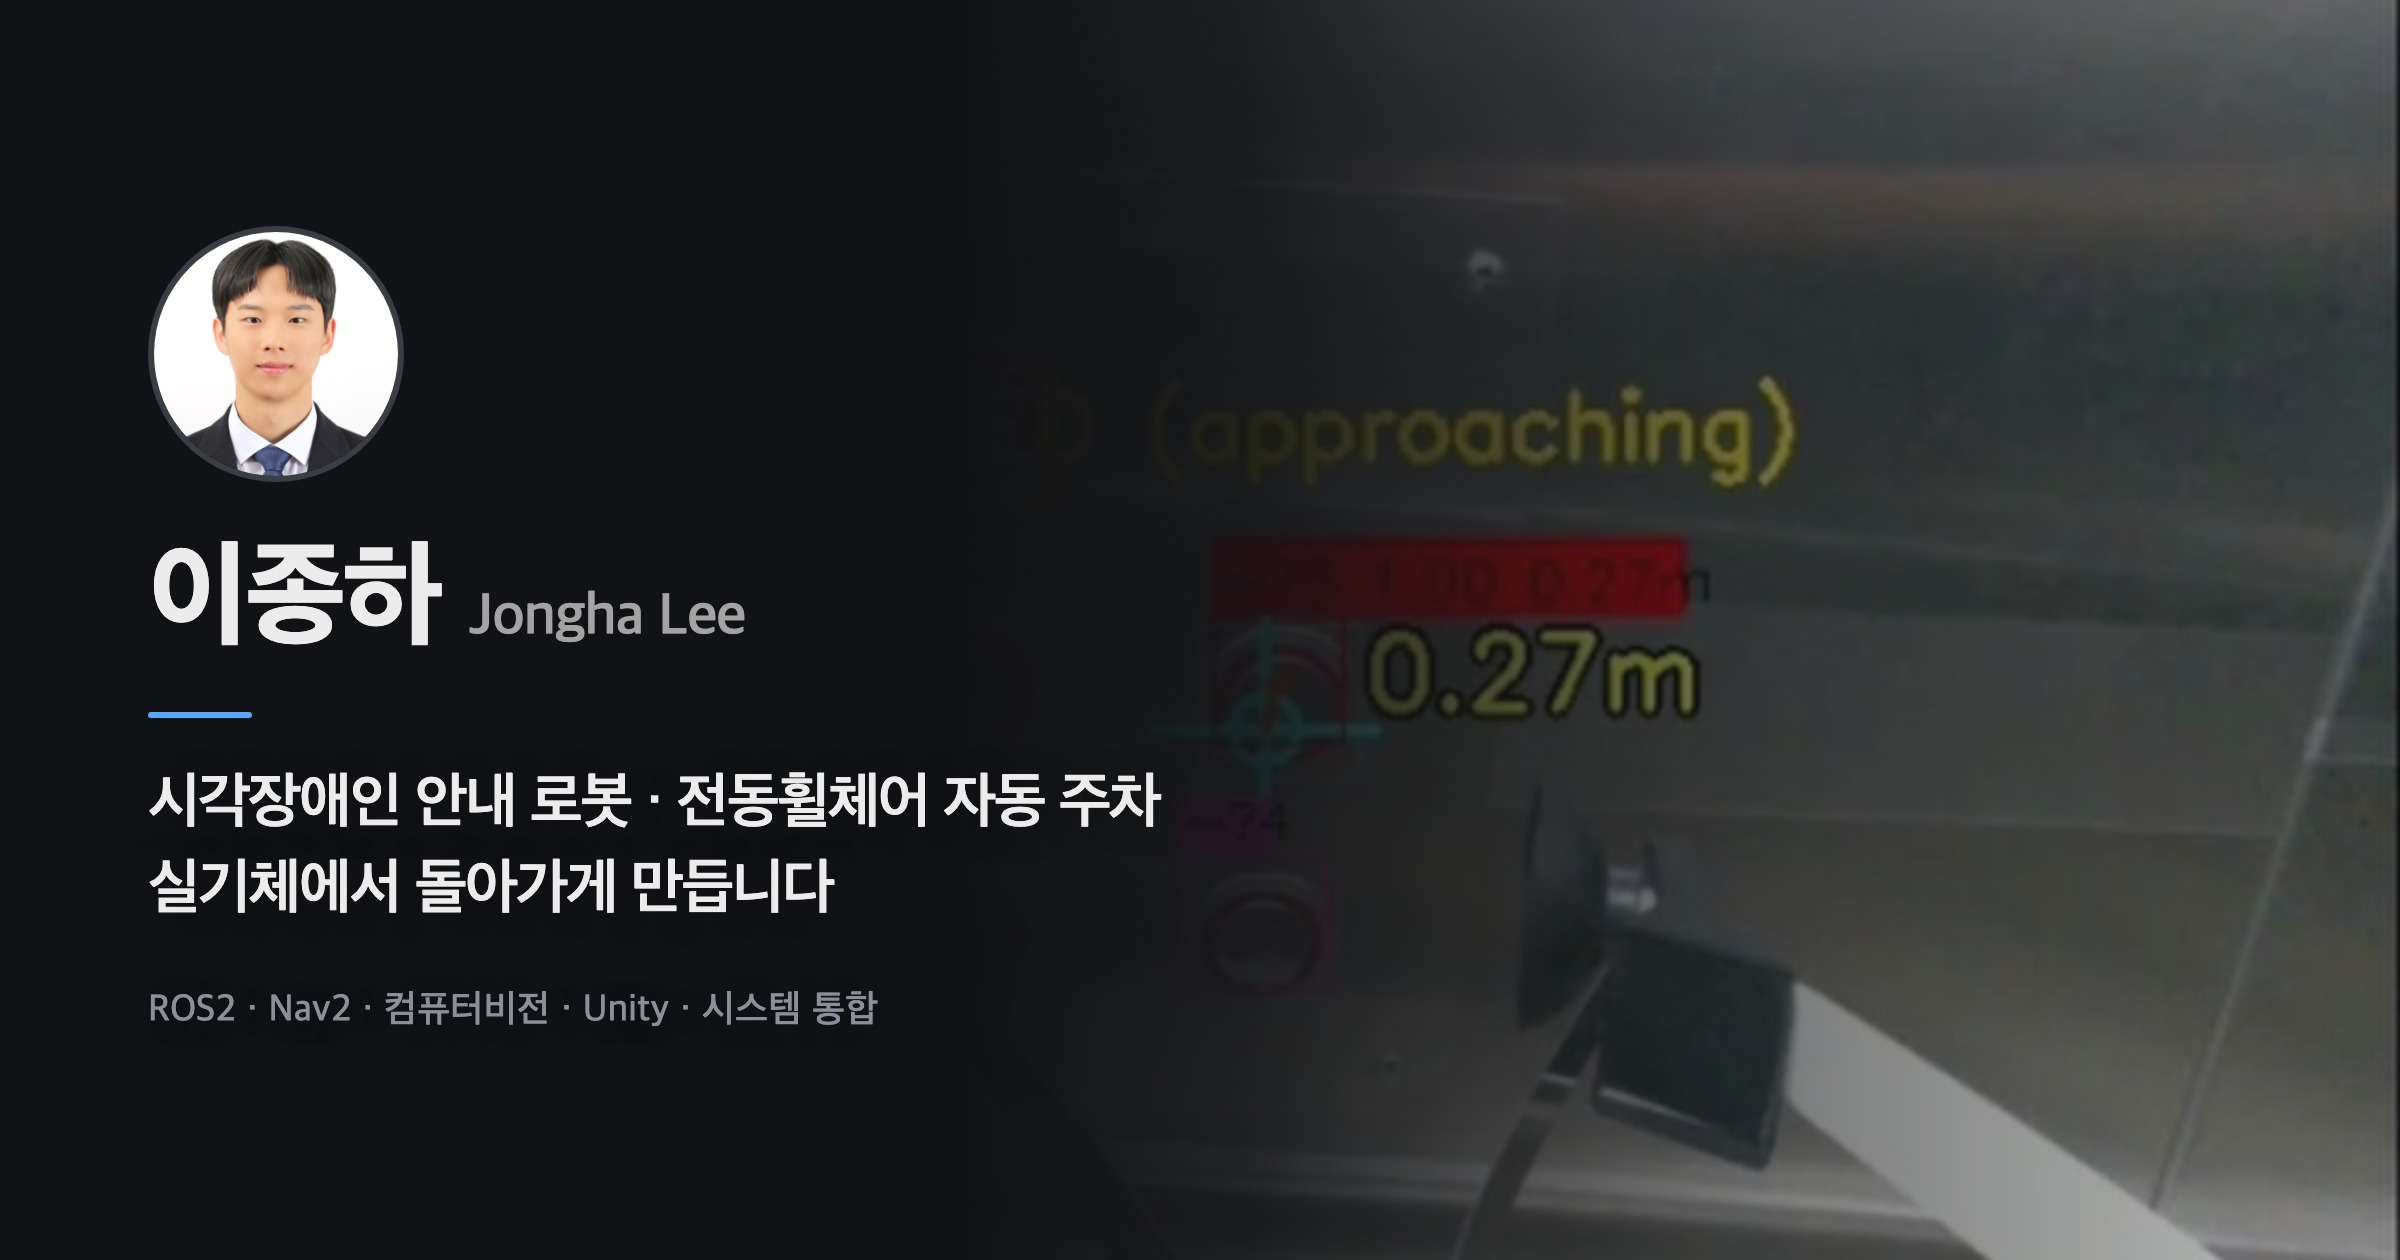
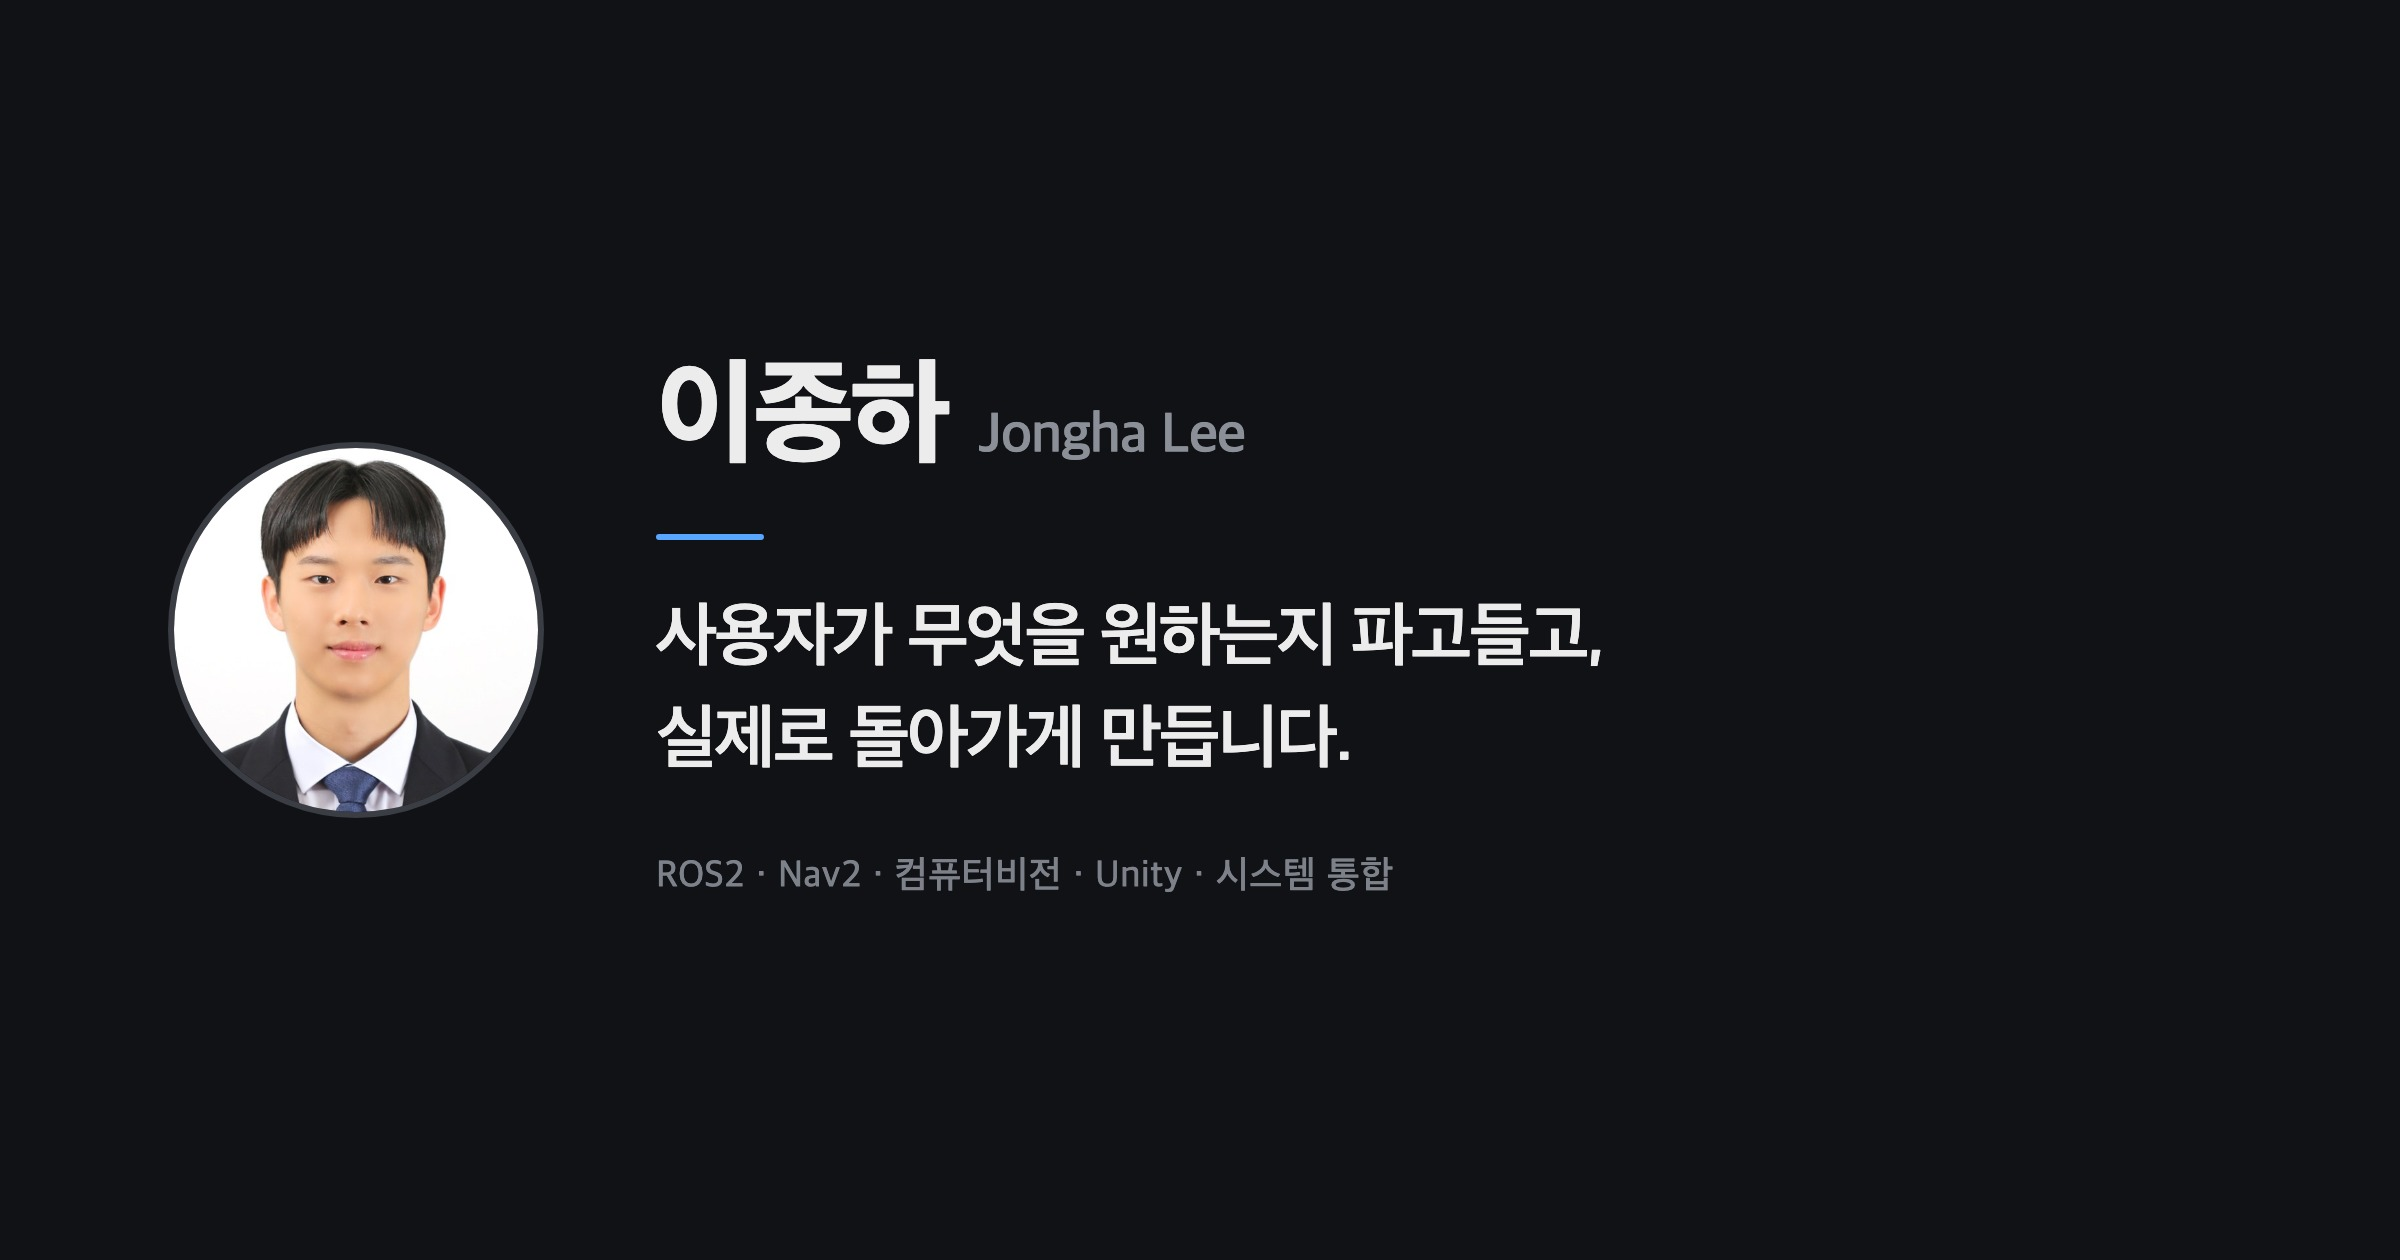
링크 미리보기를 검은 배경에 프로필과 한 줄 소개만 남김
배경의 엘리베이터 화면을 뺐다. 작게 뜨는 자리에서는 읽히지 않고
장식으로만 남았다. 프로젝트 이름을 나열하는 대신 사이트 설명과
같은 한 줄을 썼다 — 무엇을 만들었는지보다 어떻게 일하는지가
링크를 처음 보는 사람에게 더 필요한 정보다.

diff --git a/index.html b/index.html
@@ -12,7 +12,7 @@
   <meta property="og:image" content="https://bell-ha.github.io/images/og.jpg" />
   <meta property="og:image:width" content="2400" />
   <meta property="og:image:height" content="1260" />
-  <meta property="og:image:alt" content="이종하 프로필 사진과 이름, 그리고 배경에 엘리베이터 캐빈 안에서 로봇 그리퍼 카메라가 층 버튼을 인식하고 정렬을 마친 화면" />
+  <meta property="og:image:alt" content="이종하 프로필 사진과 이름, 그리고 한 줄 소개 — 사용자가 무엇을 원하는지 파고들고, 실제로 돌아가게 만듭니다" />
   <meta property="og:url" content="https://bell-ha.github.io" />
   <meta name="twitter:card" content="summary_large_image" />
 
